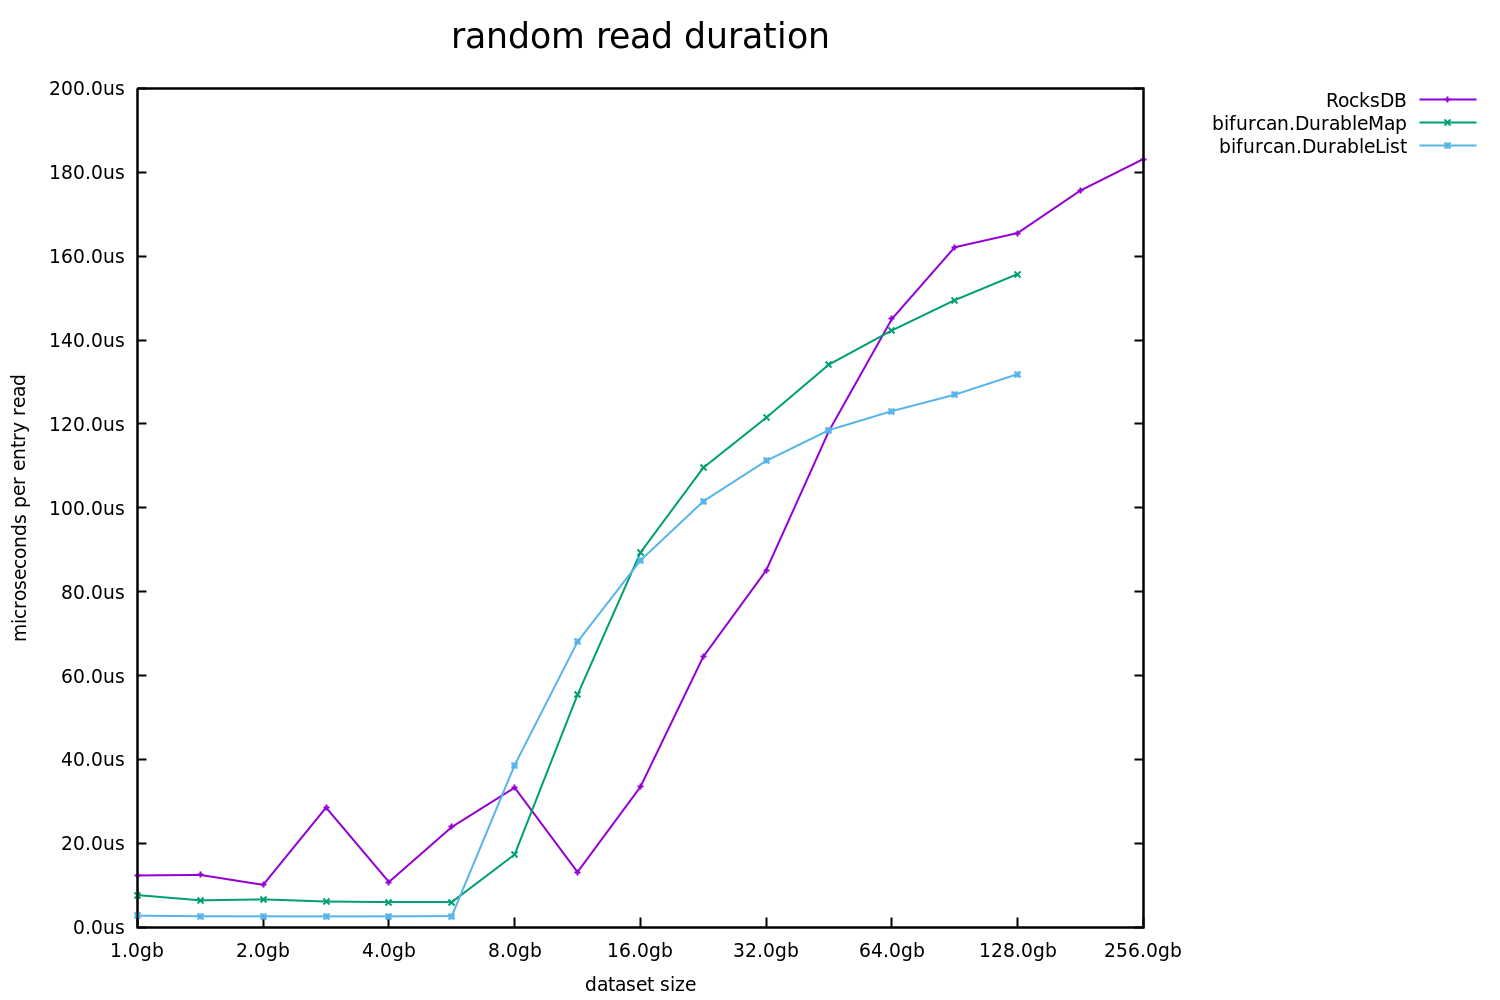
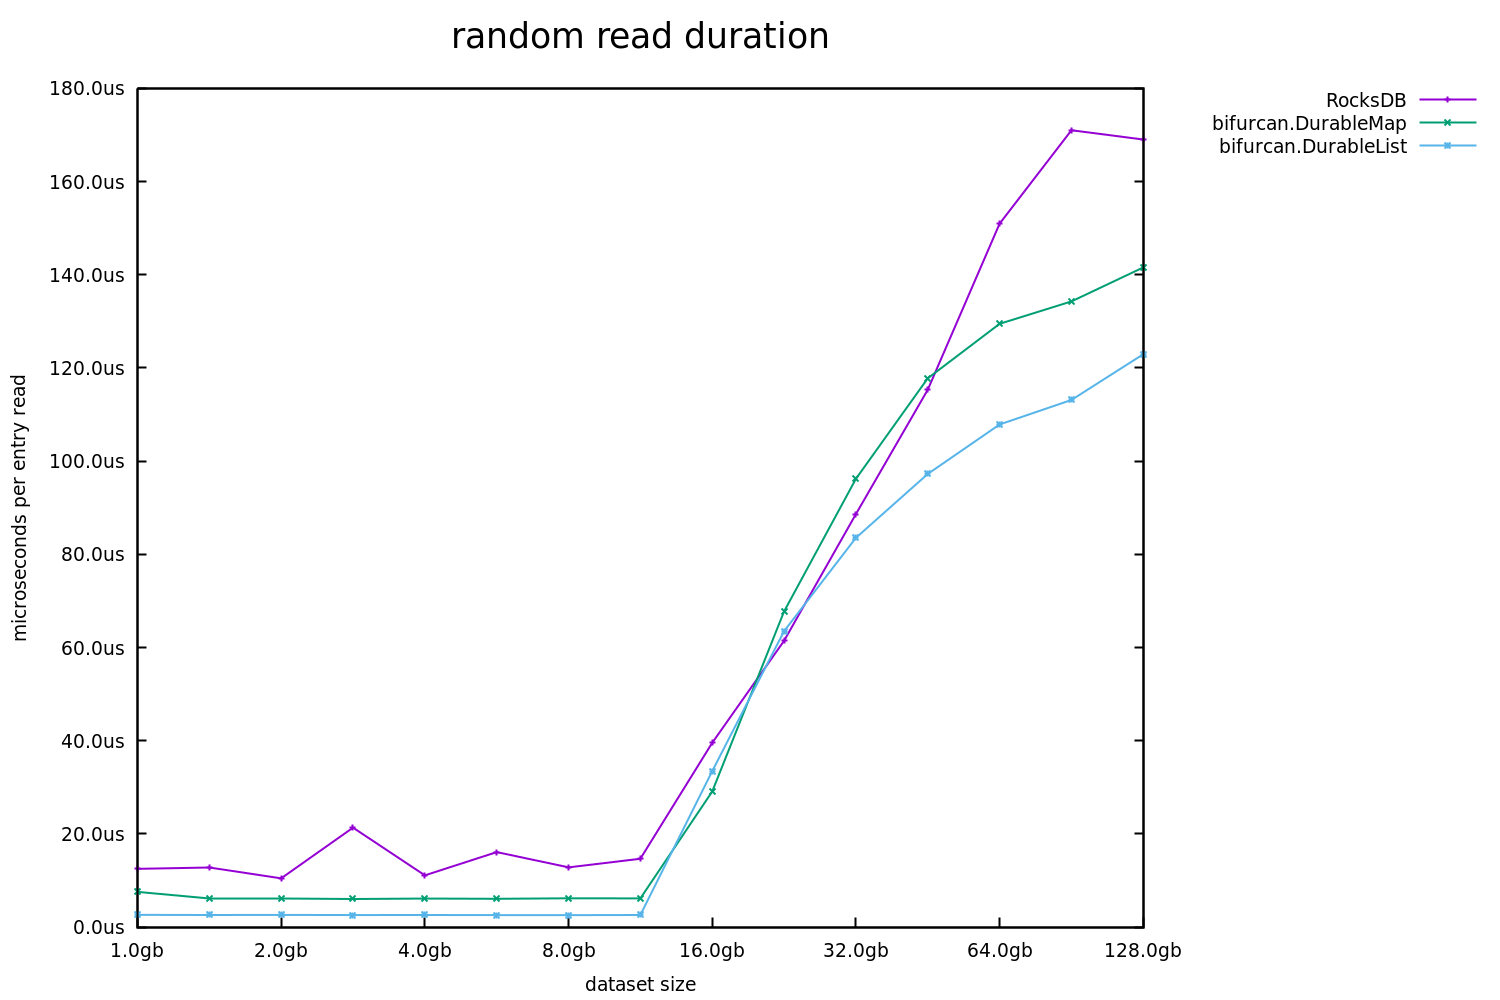
tweak buffering behavior, make sure all the benachmarks are apples to apples

diff --git a/src/io/lacuna/bifurcan/durable/io/FileOutput.java b/src/io/lacuna/bifurcan/durable/io/FileOutput.java
@@ -21,8 +21,8 @@ import java.security.MessageDigest;
 public class FileOutput implements WritableByteChannel {
 
   // `version` encompasses the algorithm, but not necessarily the number of bytes we use
-  private static final String ALGORITHM = "SHA-512";
-  private static final int HASH_BYTES = 32;
+  private static final String ALGORITHM = "SHA-1";
+  private static final int HASH_BYTES = 20;
 
   public static final ByteBuffer MAGIC_BYTES = (ByteBuffer)
       ByteBuffer.allocate(4)
@@ -37,19 +37,21 @@ public class FileOutput implements WritableByteChannel {
   private final Path path;
   private final MessageDigest digest;
   private final FileChannel file;
+  private final IBuffer buffer;
+
   private byte[] hash;
 
   public FileOutput(ISet<Fingerprint> dependencies) {
     try {
       this.path = Files.createTempFile("bifurcan-", ".draft");
       this.digest = MessageDigest.getInstance(ALGORITHM);
+      this.buffer = GenerationalAllocator.allocate(16 << 20);
 
       this.file = FileChannel.open(path, StandardOpenOption.WRITE);
       path.toFile().deleteOnExit();
 
       // skip over prefix, to fill in later
       file.position(PREFIX_LENGTH);
-
       ByteChannelOutput.wrap(this, out -> Dependencies.encode(dependencies, out));
 
     } catch (Exception e) {
@@ -72,28 +74,19 @@ public class FileOutput implements WritableByteChannel {
   }
 
   public long transferFrom(BufferedChannel channel, long start, long end) {
-    // copy the files over
-    long len = channel.transferTo(start, end, this.file);
-    if (len != (end - start)) {
-      throw new IllegalStateException(String.format("truncated input from [%d, %d), %d != %d", start, end, end - start, len));
+    ByteBuffer buf = this.buffer.bytes();
+
+    try {
+      long pos = start;
+      while (pos < end) {
+        pos += channel.read((ByteBuffer) buf.clear().limit((int) Math.min(buf.capacity(), end - pos)), pos);
+        write((ByteBuffer) buf.flip());
+      }
+    } catch (IOException e) {
+      throw new RuntimeException(e);
     }
 
-    IBuffer buf = GenerationalAllocator.allocate((int) Math.min(8 << 20, end - start));
-    ByteBuffer bytes = buf.bytes();
-
-    // update the hash
-    long remaining = len;
-    while (remaining > 0) {
-      bytes.position(0).limit((int) Math.min(bytes.capacity(), len));
-      channel.read(bytes, start + len - remaining);
-      bytes.flip();
-      remaining -= bytes.remaining();
-      digest.update(bytes);
-    }
-
-    buf.free();
-
-    return len;
+    return end - start;
   }
 
   @Override
@@ -101,12 +94,8 @@ public class FileOutput implements WritableByteChannel {
     int size = src.remaining();
 
     digest.update(src.duplicate());
-    while (src.hasRemaining()) {
-      file.write(src);
-      if (src.hasRemaining()) {
-        System.out.println(String.format("wrote %d bytes, %d left over", size, src.remaining()));
-      }
-    }
+    file.write(src);
+    assert !src.hasRemaining();
 
     return size;
   }
@@ -119,6 +108,7 @@ public class FileOutput implements WritableByteChannel {
   @Override
   public void close() {
     this.hash = digest.digest();
+    this.buffer.free();
 
     try {
       file.position(0);

diff --git a/src/io/lacuna/bifurcan/durable/io/BufferedChannel.java b/src/io/lacuna/bifurcan/durable/io/BufferedChannel.java
@@ -13,6 +13,7 @@ public class BufferedChannel {
   public static final AtomicLong PAGES_READ = new AtomicLong();
 
   private static final int PAGE_SIZE = 4 << 10;
+  private static final int READ_AHEAD = 256;
 
   public final Path path;
   private final FileChannel channel;
@@ -107,12 +108,8 @@ public class BufferedChannel {
       int size = buf.remaining();
       this.size = Math.max(this.size, position + size);
 
-      while (buf.hasRemaining()) {
-        int bytes = channel.write(buf, position);
-        if (buf.hasRemaining()) {
-          System.out.println(String.format("wrote %d bytes, %d left over", bytes, buf.remaining()));
-        }
-      }
+      int bytes = channel.write(buf, position);
+      assert !buf.hasRemaining();
 
       // if our write overlapped with our buffer, just clear it out
       if (position < (bufferOffset + buffer.limit()) && bufferOffset < (position + size)) {
@@ -125,14 +122,17 @@ public class BufferedChannel {
 
   public int read(ByteBuffer dst, long position) {
     if (dst.remaining() < PAGE_SIZE) {
-       return Bytes.transfer(ensureAvailable(dst.remaining(), position), dst);
+      return Bytes.transfer(ensureAvailable(dst.remaining(), position), dst);
     } else {
       try {
         seekBuffer(position);
         int bytes = Bytes.transfer(buffer, dst);
         if (dst.hasRemaining()) {
-          int read = Math.max(0, channel.read(dst, position + bytes));
-          PAGES_READ.addAndGet(((pageFloor(position + read) - pageFloor(position)) / PAGE_SIZE) + 1);
+          int read = channel.read(dst, position + bytes);
+          if (read < 0) {
+            return bytes;
+          }
+          markRead(position, position + read);
           bytes += read;
         }
         return bytes;
@@ -144,8 +144,13 @@ public class BufferedChannel {
 
   ///
 
+  private void markRead(long start, long end) {
+    long pages = ((pageFloor(end - 1) - pageFloor(start)) / PAGE_SIZE) + 1;
+    PAGES_READ.addAndGet(pages);
+  }
+
   private long pageFloor(long position) {
-    return position & ~(PAGE_SIZE - 1);
+    return (position & ~(PAGE_SIZE - 1));
   }
 
   private void clearBuffer(long position) {
@@ -165,10 +170,11 @@ public class BufferedChannel {
     seekBuffer(position);
     if (buffer.remaining() < bytes) {
       bufferOffset = pageFloor(position);
-      buffer.position(0).limit((position + bytes) - bufferOffset > PAGE_SIZE ? PAGE_SIZE * 2 : PAGE_SIZE);
+      int pages = bufferOffset != pageFloor(position + bytes + READ_AHEAD - 1) ? 2 : 1;
       try {
-        PAGES_READ.addAndGet(buffer.remaining() / PAGE_SIZE);
-        channel.read(buffer, bufferOffset);
+        buffer.position(0).limit(pages * PAGE_SIZE);
+        int read = channel.read(buffer, bufferOffset);
+        markRead(bufferOffset, bufferOffset + read);
       } catch (IOException e) {
         throw new RuntimeException(e);
       }

diff --git a/README.md b/README.md
@@ -117,6 +117,6 @@ This separation of concerns provides greater flexibility, but also requires more
 
 ### license
 
-Copyright © 2016-2018 Zachary Tellman
+Copyright © 2016-2020 Zachary Tellman
 
 Distributed under the MIT License
